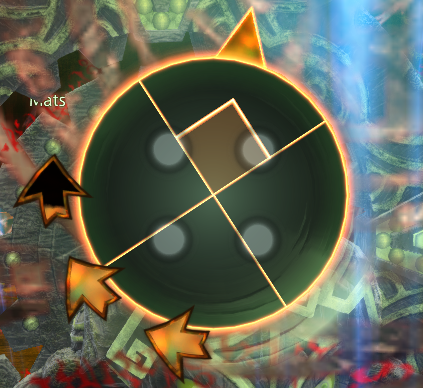
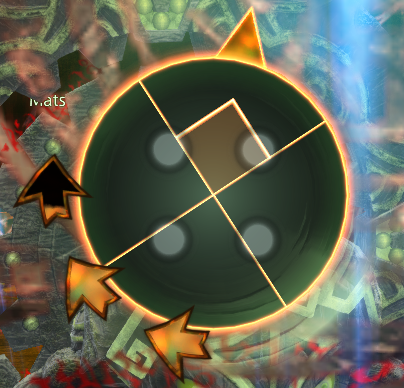
cw+ccw round

diff --git a/script.js b/script.js
@@ -168,7 +168,8 @@ function renderRotationImage(prompt, div) {
     const imageElement = document.createElement('img');
     imageElement.src = imageSrc;
     imageElement.classList.add('m-3');
-    imageElement.classList.add('w-25');
+    imageElement.classList.add('rounded-circle');
+    imageElement.style = 'width: 150px; height: 150px; object-fit: cover; object-position: centered';
     div.appendChild(imageElement);
 }
 
